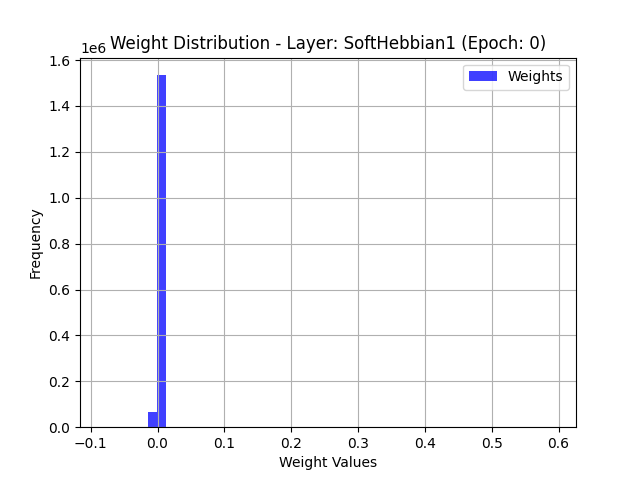
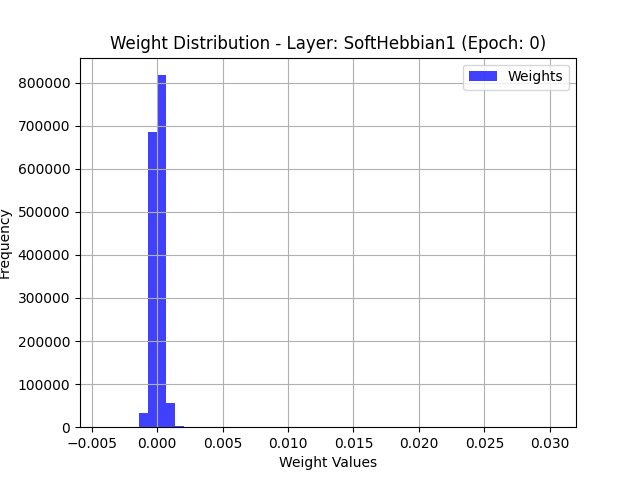
Added flexible anti hebb factor

diff --git a/MLP_train.py b/MLP_train.py
@@ -286,7 +286,7 @@ def train_loop(model, train_dataloader, test_dataloader, metrics, args, checkpoi
         visualize_weight_distribution(model, epoch)
 
 
-def test_loop(model, train_dataloader, test_dataloader, metrics, args, checkpoint, hsize, lamb, w_lr, b_lr, l_lr, w_norm):
+def test_loop(model, train_dataloader, test_dataloader, metrics, args, checkpoint, hsize, lamb, w_lr, b_lr, l_lr, w_norm, anti_hebb_factor):
     test_batches_per_epoch = len(test_dataloader)
     epoch = 0
     # Set the model to evaluation mode - important for layers with different training / inference behaviour
@@ -328,11 +328,11 @@ def test_loop(model, train_dataloader, test_dataloader, metrics, args, checkpoin
                 )
                 print("Model " + str(int(os.environ["RANK"])) + " has testing accuracy of " + str(pct_test_correct))
 
-                csv_file_path = "/root/HebbianTopDown/AntiHebb_MLP_hyper_search_Softmax/wnorm_results.csv"
+                csv_file_path = "/root/HebbianTopDown/AntiHebb_MLP_hyper_search_Softmax/anti_hebb_results.csv"
                 file_exists = os.path.isfile(csv_file_path)
 
                 with open(csv_file_path, "a", newline="") as csvfile:
-                    fieldnames = ["test_accuracy", "hsize", "lambda", "w_lr", "b_lr", "l_lr", "triangle", "white", "func", "w_norm"]
+                    fieldnames = ["test_accuracy", "hsize", "lambda", "w_lr", "b_lr", "l_lr", "triangle", "white", "func", "w_norm", "anti_hebb_factor"]
                     
                     writer = csv.DictWriter(csvfile, fieldnames=fieldnames)
 
@@ -349,7 +349,8 @@ def test_loop(model, train_dataloader, test_dataloader, metrics, args, checkpoin
                         "triangle":"true",
                         "white":"true",
                         "func": "softmax",
-                        "w_norm": w_norm
+                        "w_norm": w_norm,
+                        "anti_hebb_factor": anti_hebb_factor
                     })
 
             atomic_torch_save(
@@ -408,7 +409,7 @@ def main(args, timer):
         test_dataset = datasets.MNIST(root='./data', train=False, download=True, transform=transform_MNIST)
 
         timer.report("Initialized datasets")
-        model = MLP.NewMLPBaseline_Model(hsize=config['hsize'], lamb=config['lambd'], w_lr=config['w_lr'], b_lr=config['b_lr'], l_lr=config['l_lr'], initial_weight_norm=config['w_norm'], nclasses=10, device=args.device_id)
+        model = MLP.NewMLPBaseline_Model(hsize=config['hsize'], lamb=config['lambd'], w_lr=config['w_lr'], b_lr=config['b_lr'], l_lr=config['l_lr'], initial_weight_norm=config['w_norm'], nclasses=10, anti_hebb_factor=config['anti_hebb_factor'] , device=args.device_id)
 
 
     elif dataset == "FASHION":
@@ -483,7 +484,7 @@ def main(args, timer):
 
     test_loop(
         model, train_dataloader, test_dataloader, metrics, args, savedcheckpoint,
-        hsize=config['hsize'], lamb=config['lambd'], w_lr=config['w_lr'], b_lr=config['b_lr'], l_lr=config['l_lr'], w_norm=config['w_norm']
+        hsize=config['hsize'], lamb=config['lambd'], w_lr=config['w_lr'], b_lr=config['b_lr'], l_lr=config['l_lr'], w_norm=config['w_norm'], anti_hebb_factor=config['anti_hebb_factor']
     )
 
     print("Done!")

diff --git a/models/learning.py b/models/learning.py
@@ -78,7 +78,7 @@ def softhebb_input_difference(x, a, normalized_weights):
     return in_space_diff
 
 def update_softhebb_w(y, normed_x, a, weights, inhibition: Inhibition, u=None, target=None,
-                      supervised=False, weight_growth: WeightGrowth = WeightGrowth.Default):
+                      supervised=False, weight_growth: WeightGrowth = WeightGrowth.Default, anti_hebb_factor=1):
     weight_norms = torch.norm(weights, dim=1, keepdim=True)
     normed_weights = weights / (weight_norms + 1e-9)
     batch_dim, out_dim = y.shape
@@ -112,7 +112,7 @@ def update_softhebb_w(y, normed_x, a, weights, inhibition: Inhibition, u=None, t
     mask = torch.zeros_like(y_part, dtype=torch.bool)
     mask.scatter_(1, indices, True)
     # Set the non-maximum values to negative
-    anti_hebbian_output = torch.where(mask, y_part, -y_part)
+    anti_hebbian_output = torch.where(mask, y_part, -anti_hebb_factor*y_part)
         
     # Innefficient. We are trying to calculate it in a more memory efficient way.
     # delta_w = factor * y_part * x.reshape(batch_dim, 1, in_dim) - a.reshape(batch_dim, out_dim, 1) * normalized_weights.reshape(1, out_dim, in_dim)
@@ -156,5 +156,24 @@ def update_softhebb_lamb(y, a, inhibition: Inhibition, lamb=None, in_dim=None, t
         delta_l = torch.sum(y * v, dim=1) - k
     delta_l = torch.mean(delta_l)  # mean over batch dim
     return delta_l
+
+def test_update_softhebb_w(y, x, weights, eta=0.01, beta=0.1):
+    """
+    Implements the local Hebbian and Anti-Hebbian learning rule to match SoftHebb.
+    """
+    # Ensure activations are normalized
+    u = torch.relu(y) / (torch.norm(y, dim=1, keepdim=True) + 1e-9)
+
+    # Hebbian update: strengthening correlated activations
+    hebbian_term = eta * (y.unsqueeze(2) * x.unsqueeze(1))
+
+    # Anti-Hebbian update: decorrelating neuron responses
+    anti_hebbian_term = beta * weights
+
+    # Final weight update
+    delta_w = hebbian_term - anti_hebbian_term
+
+    return delta_w.mean(dim=0)  # Averaging over batch
+
 
 

diff --git a/models/MLP/layers.py b/models/MLP/layers.py
@@ -15,7 +15,7 @@ class SoftHebbLayer(nn.Module):
                  inhibition: Inhibition = Inhibition.Softmax,
                  learningrule: LearningRule = LearningRule.SoftHebb,
                  preprocessing: InputProcessing = InputProcessing.Whiten, # whitening or no whitening
-                 weight_growth: WeightGrowth = WeightGrowth.Default):
+                 weight_growth: WeightGrowth = WeightGrowth.Default, anti_hebb_factor=1):
         super(SoftHebbLayer, self).__init__()
         if device is None:
             device = "cuda" if torch.cuda.is_available() else "cpu"
@@ -33,6 +33,7 @@ class SoftHebbLayer(nn.Module):
         self.inhibition: Inhibition = inhibition
         self.weight_growth: WeightGrowth = weight_growth
         self.preprocessing: InputProcessing = preprocessing
+        self.anti_hebb_factor = anti_hebb_factor
         if preprocessing == InputProcessing.Whiten:
             self.bn = M.BatchNorm(inputdim, device=device)
 
@@ -98,7 +99,7 @@ class SoftHebbLayer(nn.Module):
         supervised = self.learningrule == LearningRule.SoftHebbOutputContrastive
         delta_w = L.update_softhebb_w(inference_output.y, inference_output.xn, inference_output.a,
                                       self.weight, self.inhibition, inference_output.u, target=target,
-                                      supervised=supervised, weight_growth=self.weight_growth)
+                                      supervised=supervised, weight_growth=self.weight_growth, anti_hebb_factor=self.anti_hebb_factor)
         delta_b = L.update_softhebb_b(inference_output.y, self.logprior, target=target, supervised=supervised)
         delta_l = L.update_softhebb_lamb(inference_output.y, inference_output.a, inhibition=self.inhibition,
                                          lamb=self.lamb.item(), in_dim=self.input_dim, target=target,

diff --git a/models/MLP/model.py b/models/MLP/model.py
@@ -168,13 +168,13 @@ def MLPBaseline_Model(hsize, lamb, lr, e, wtd, gamma, nclasses, device, o, w, ws
     return mymodel
 
 
-def NewMLPBaseline_Model(hsize, lamb, w_lr, b_lr, l_lr, nclasses, device, initial_weight_norm=0.01):
+def NewMLPBaseline_Model(hsize, lamb, w_lr, b_lr, l_lr, nclasses, device, initial_weight_norm=0.01, anti_hebb_factor=1):
     mymodel = SoftNeuralNet()
     heb_layer = SoftHebbLayer(inputdim=784, outputdim=hsize, w_lr=w_lr, b_lr=b_lr, l_lr=l_lr,
-                              device=device, initial_lambda=lamb, initial_weight_norm=initial_weight_norm)
+                              device=device, initial_lambda=lamb, initial_weight_norm=initial_weight_norm, anti_hebb_factor=anti_hebb_factor)
     
     heb_layer2 = SoftHebbLayer(hsize, nclasses, w_lr=w_lr, b_lr=b_lr, l_lr=l_lr, initial_lambda=lamb,
-                               learningrule=LearningRule.SoftHebbOutputContrastive, is_output_layer=True, initial_weight_norm=initial_weight_norm)
+                               learningrule=LearningRule.SoftHebbOutputContrastive, is_output_layer=True, initial_weight_norm=initial_weight_norm, anti_hebb_factor=anti_hebb_factor)
     mymodel.add_layer('SoftHebbian1', heb_layer)
     mymodel.add_layer('SoftHebbian2', heb_layer2)
 

diff --git a/models/MLP/generate_configs.py b/models/MLP/generate_configs.py
@@ -19,7 +19,7 @@ def generate_mlp_config_files(hsizes, lambds, wlrs, blrs, llrs, w_norm):
 
 
 def generate_mlp_config_files():
-    p = [0.001, 0.0005]
+    p = [0, 0.66, 1]
     for j in range(len(p)):
         for i in range(0, 8):
             config = {
@@ -28,7 +28,8 @@ def generate_mlp_config_files():
             "w_lr": 0.1,
             "b_lr": 0.0033,
             "l_lr": 0.1,
-            "w_norm": 0.01
+            "w_norm": 0.01,
+            "anti_hebb_factor": p[j]
             }
             with open("ConfigsMLP/config" + str(i + j*8) + ".json", "w") as jfile:
                 json.dump(config, jfile, indent=4)
